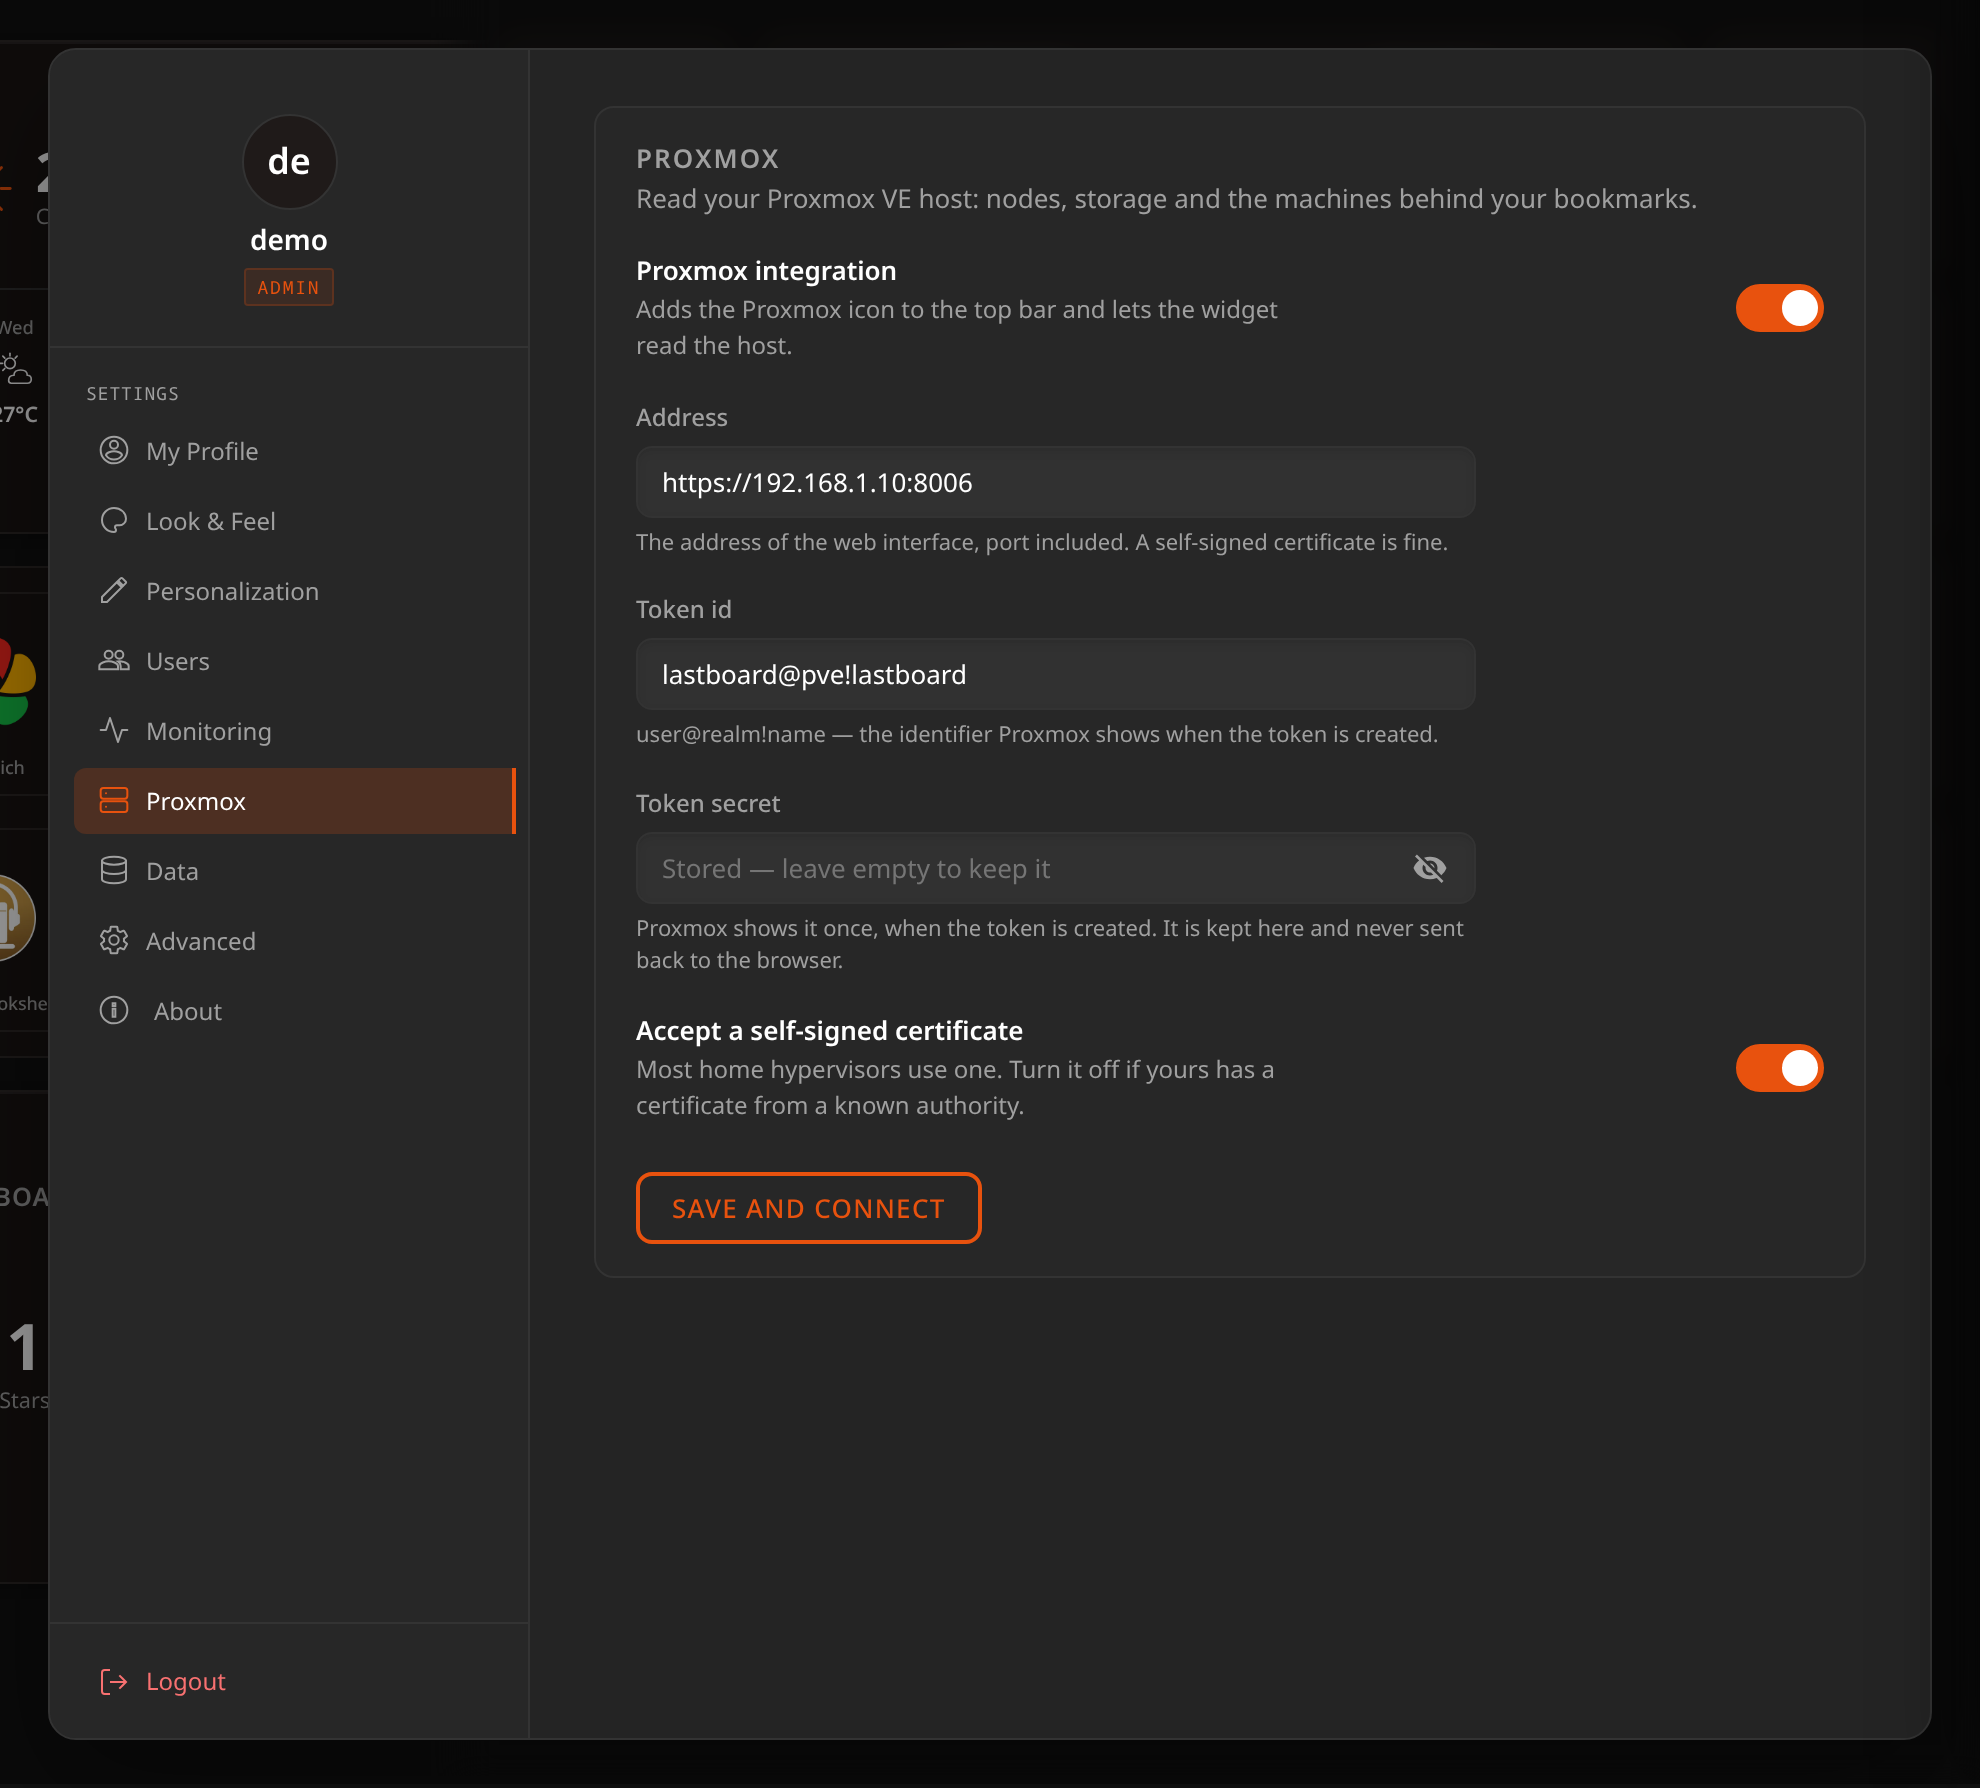
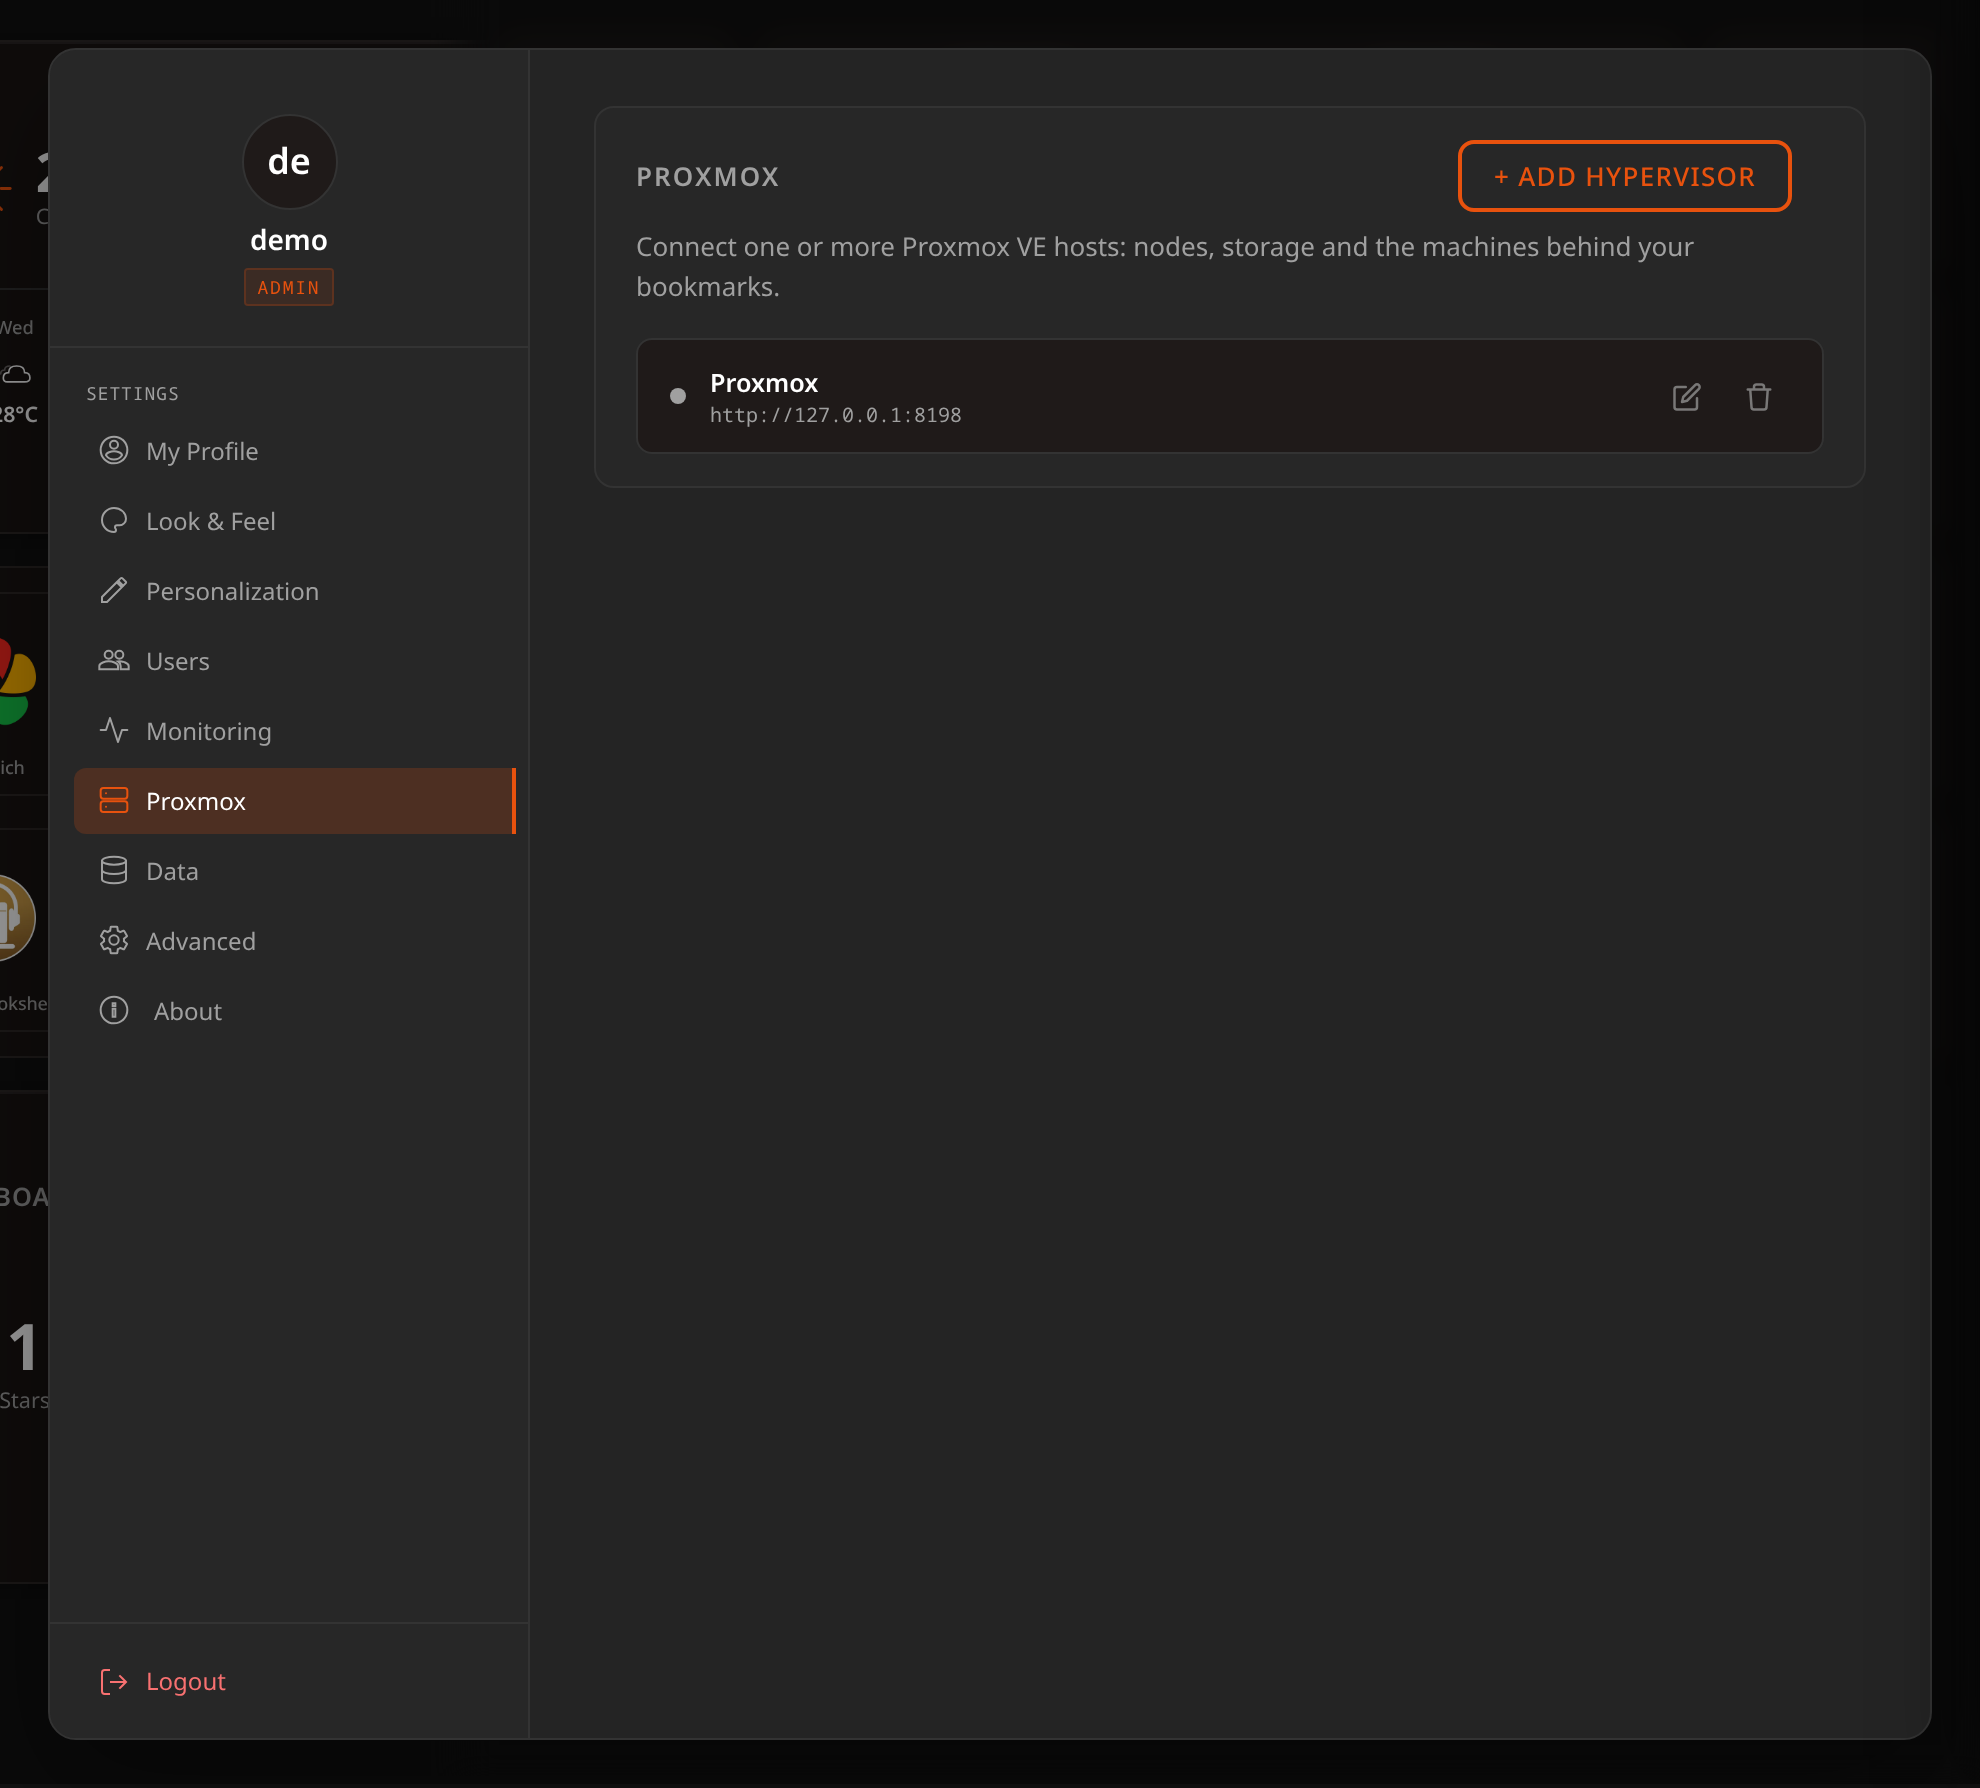
docs: the Proxmox pictures show what the settings became
The settings shot still showed the single form the list replaced, and the
page shot predates the fold. Both regenerated.

The rig was configuring its stand-in hypervisor with the old payload, which
the server now ignores — it would have photographed a Proxmox section with
nothing connected, and the tick beside the filename would have said nothing
about that.

diff --git a/scripts/docs-shots.ts b/scripts/docs-shots.ts
@@ -516,12 +516,16 @@ async function seedLiveData(dbPath: string, token: string, csrf: string) {
     // Proxmox, pointed at the stand-in. The token is nonsense and says so: it
     // is written into the picture of the settings screen, so it has to be a
     // value nobody could mistake for a real one.
+    // A list since 1.8.0: one entry is one hypervisor.
     await api('/proxmox/settings', {
-        enabled: true,
-        url: `http://127.0.0.1:${PVE_PORT}`,
-        token_id: 'lastboard@pve!lastboard',
-        secret: '00000000-0000-0000-0000-000000000000',
-        insecure: true,
+        hosts: [{
+            name: 'Proxmox',
+            url: `http://127.0.0.1:${PVE_PORT}`,
+            token_id: 'lastboard@pve!lastboard',
+            secret: '00000000-0000-0000-0000-000000000000',
+            insecure: true,
+            enabled: true,
+        }],
     });
 
     // Row seven: row five is already full (monitoring, API, Docker), and two
